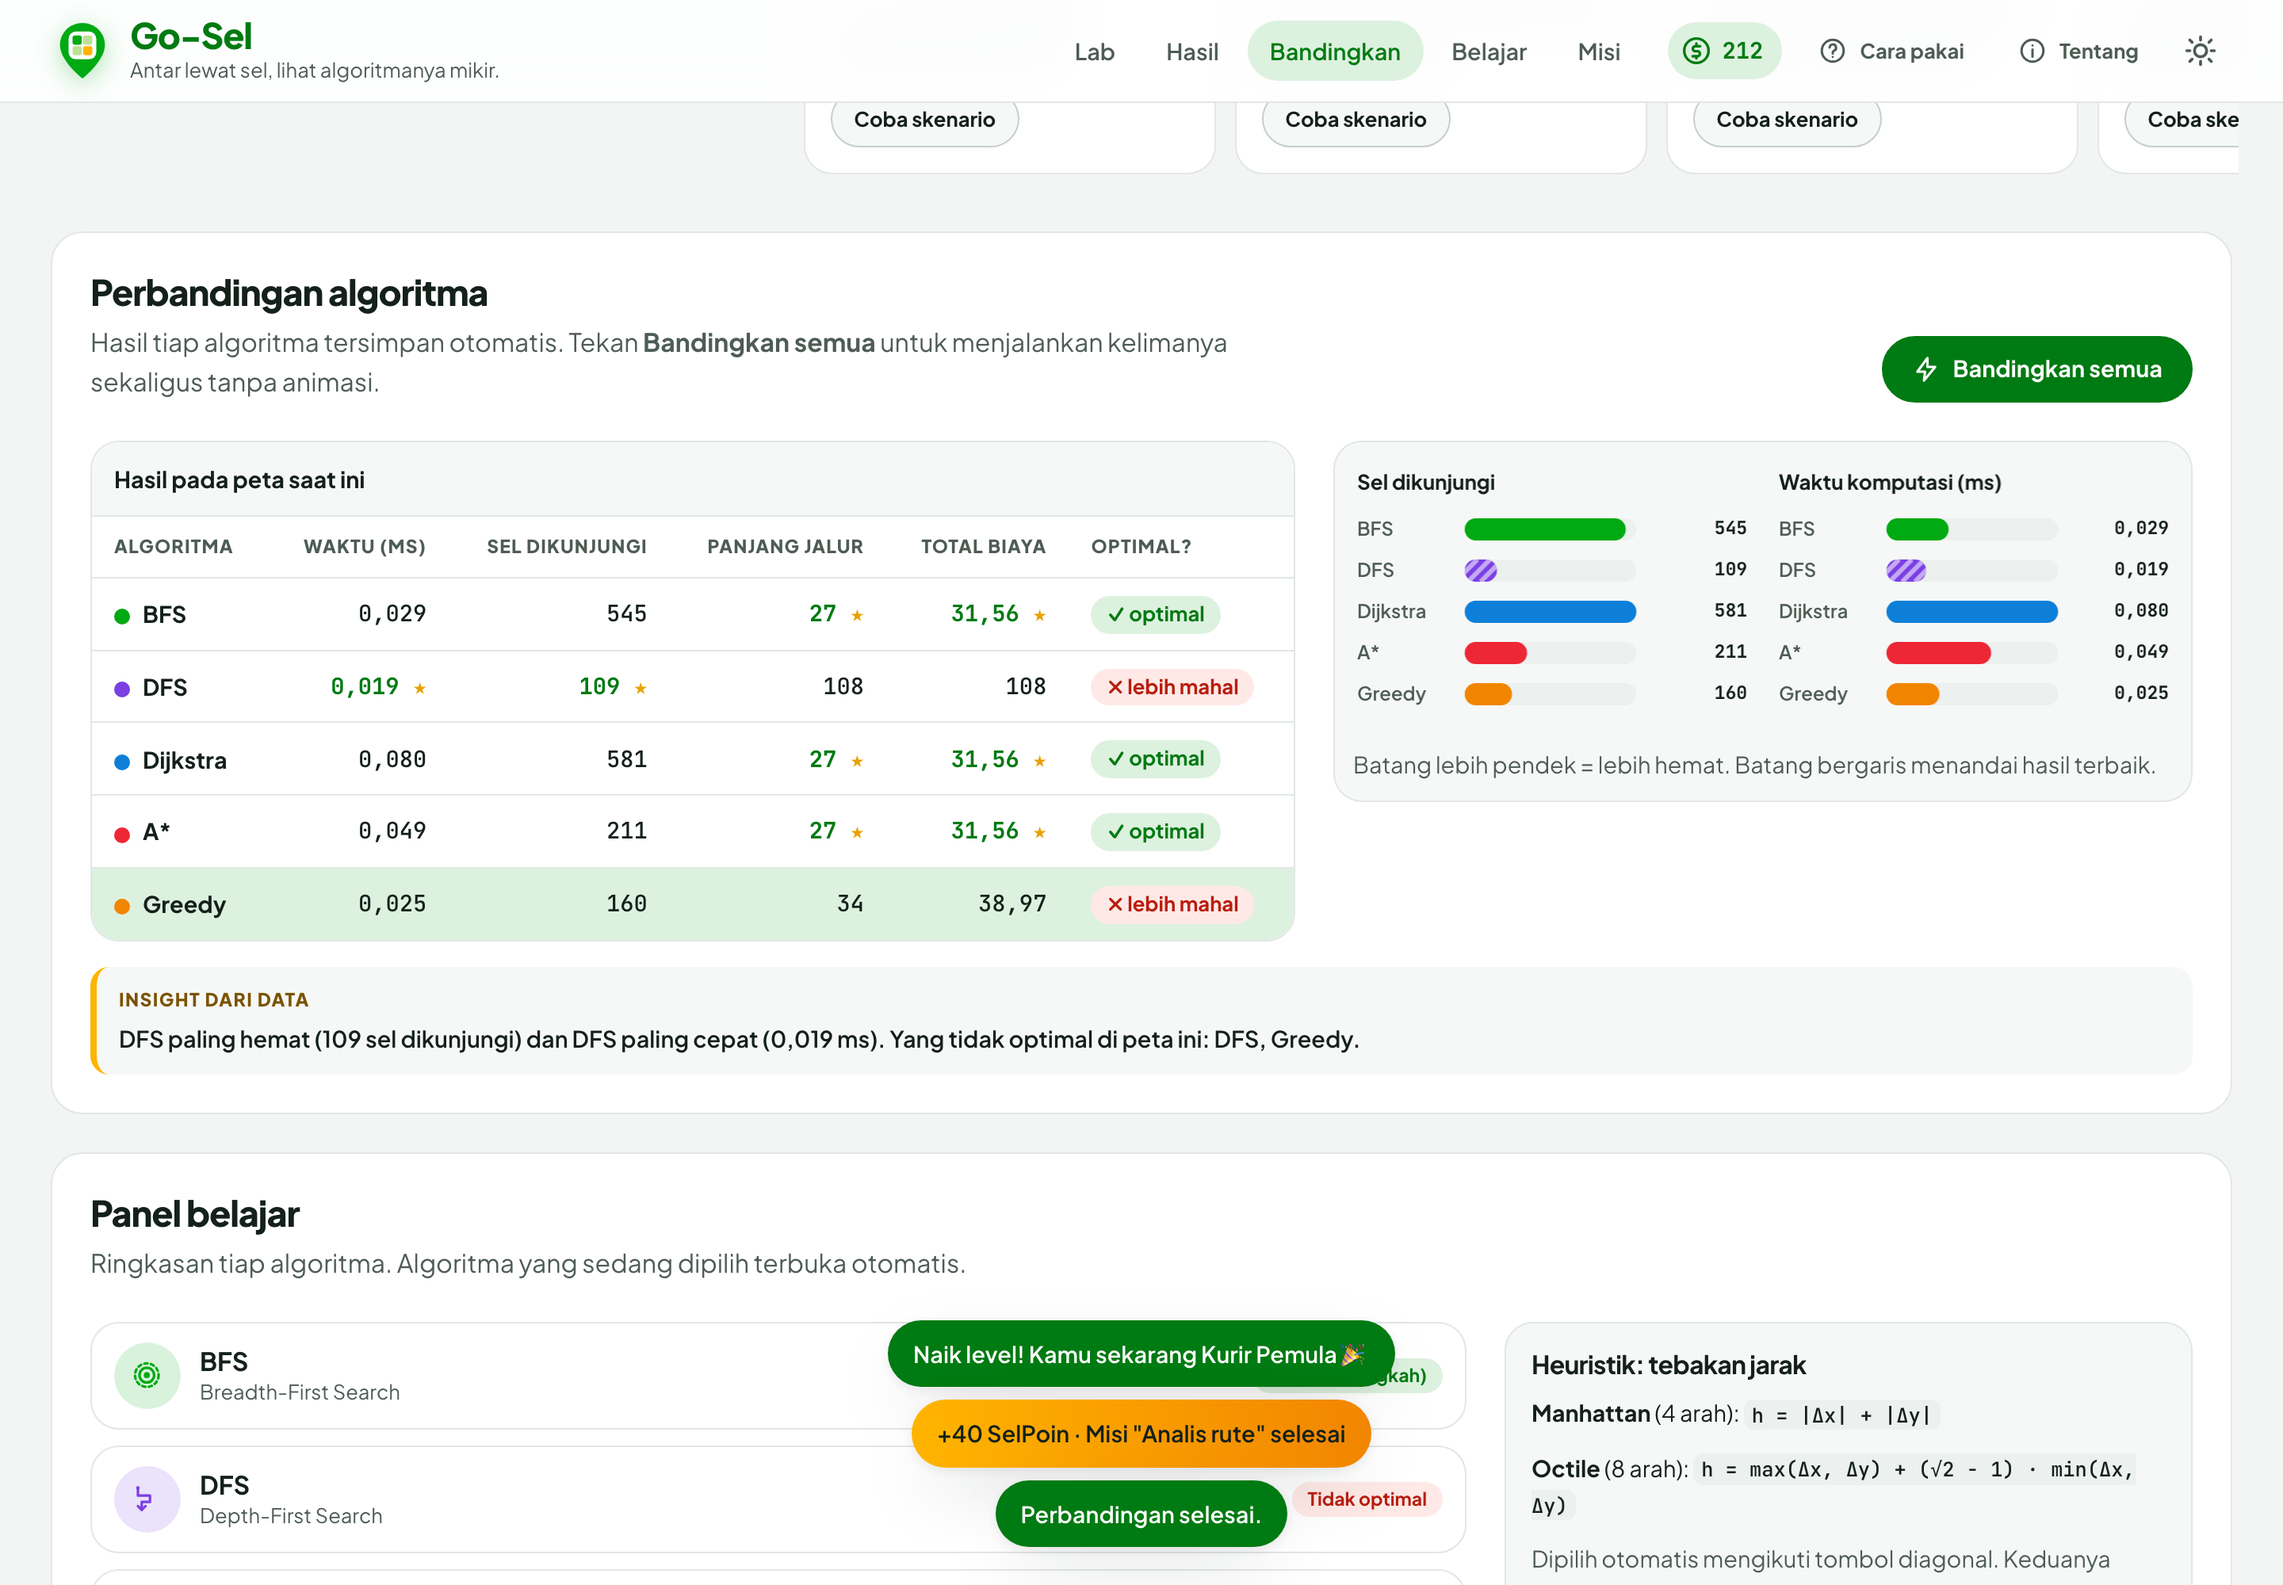
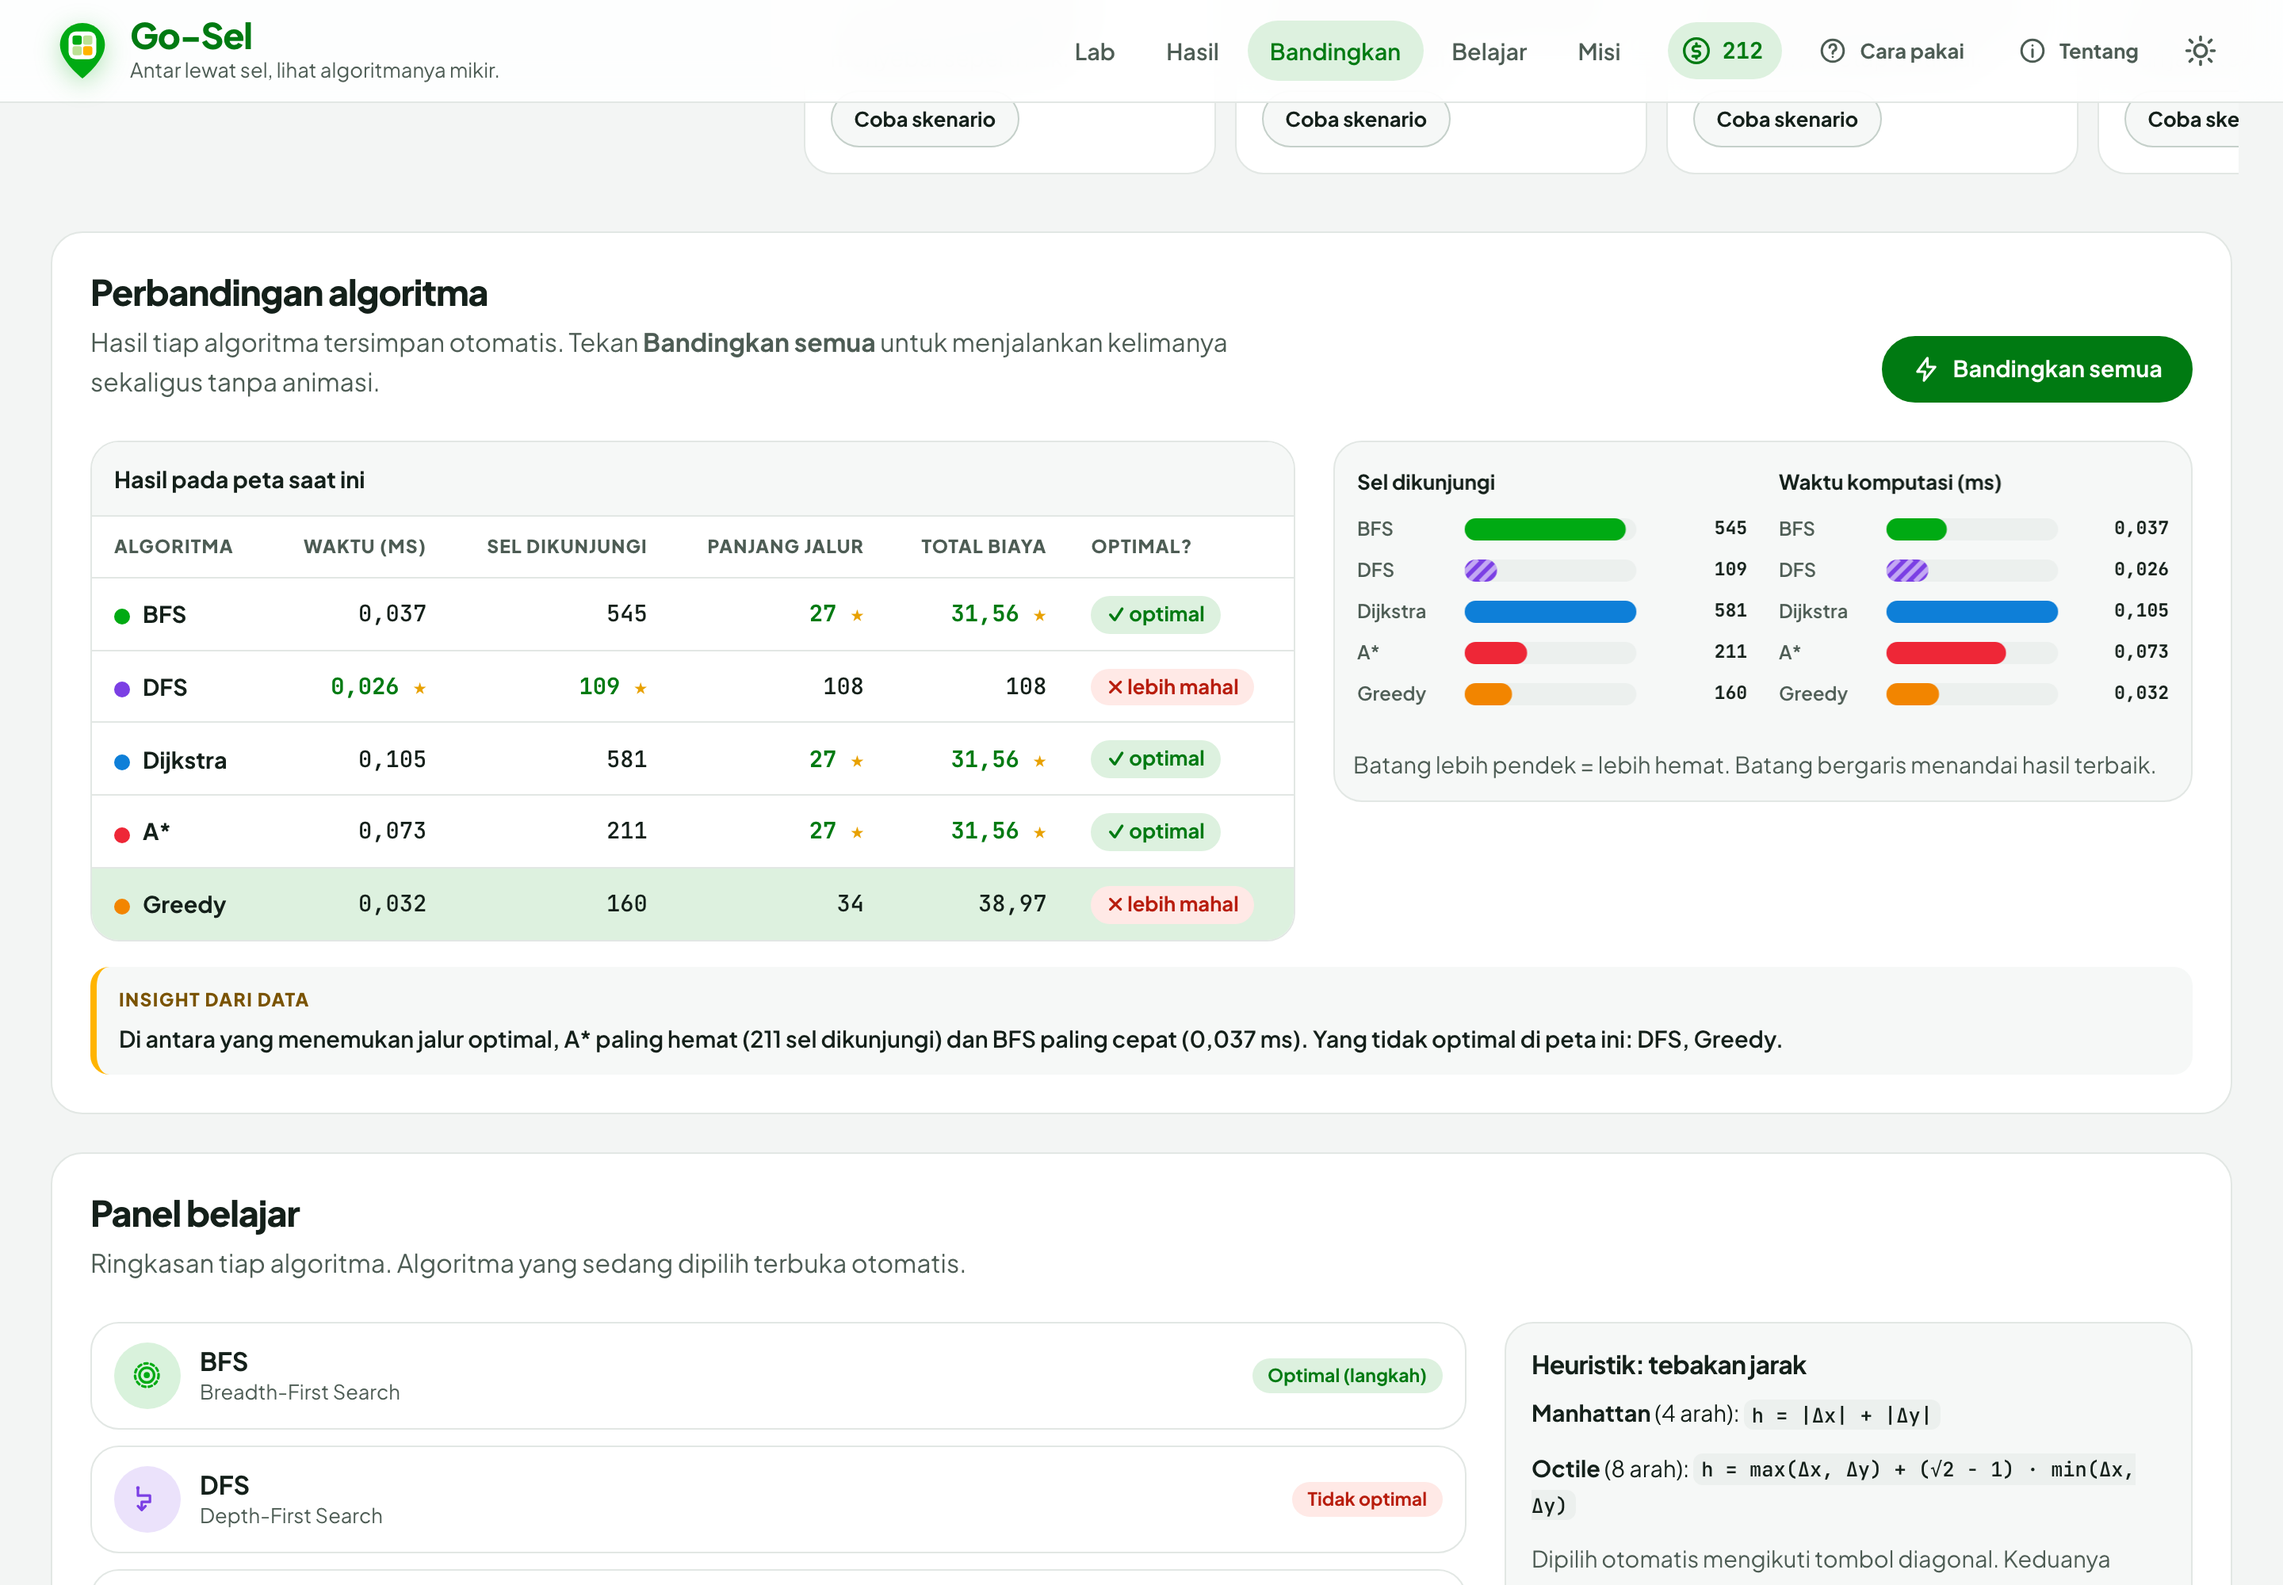
update screenshot + readme

Changed region(s): [[0.375, 0.806, 0.625, 0.992], [0.0625, 0.651, 0.7812, 0.682]]

diff --git a/README.md b/README.md
@@ -55,7 +55,7 @@ Uji logika algoritma: buka `tests.html` (48 assertion otomatis, tampil hijau/mer
 - **Kuis tebak algoritma** yang soal dan jawabannya dihitung dari peta saat ini.
 
 **Lainnya**
-- Mode gelap (ikut sistem + tombol manual, transisi lingkaran View Transitions API).
+- Default tema terang; mode gelap (hampir hitam) lewat tombol di app bar, dengan transisi lingkaran View Transitions API.
 - Simpan/muat peta (`localStorage`), ekspor/impor JSON (atau seret file .json ke peta).
 - Link skenario, misalnya `index.html?skenario=trap&algo=greedy&selesai`.
 - Pintasan keyboard: `Spasi` jalan/jeda, `S` langkah, `F` selesaikan, `R` ulangi, `C` hapus gedung, `D` diagonal, `1`–`5` algoritma. Peta bisa dioperasikan dengan panah + `Enter`/`K`/`T`.
